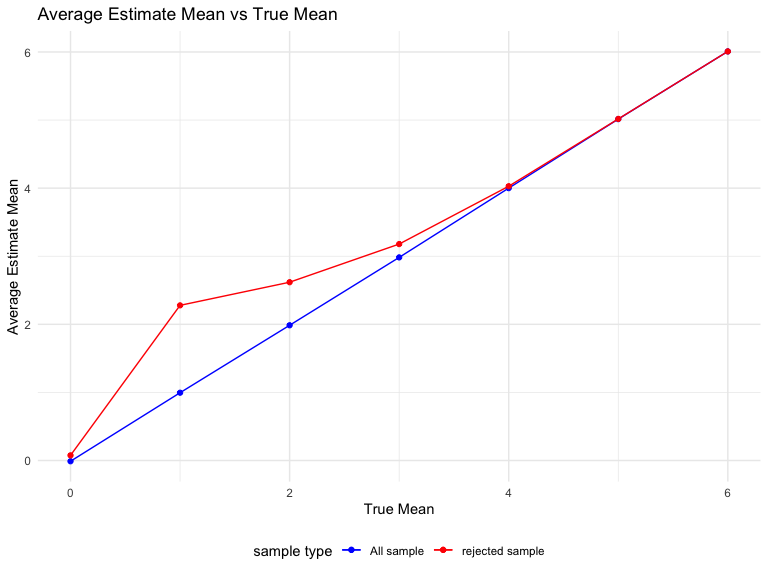
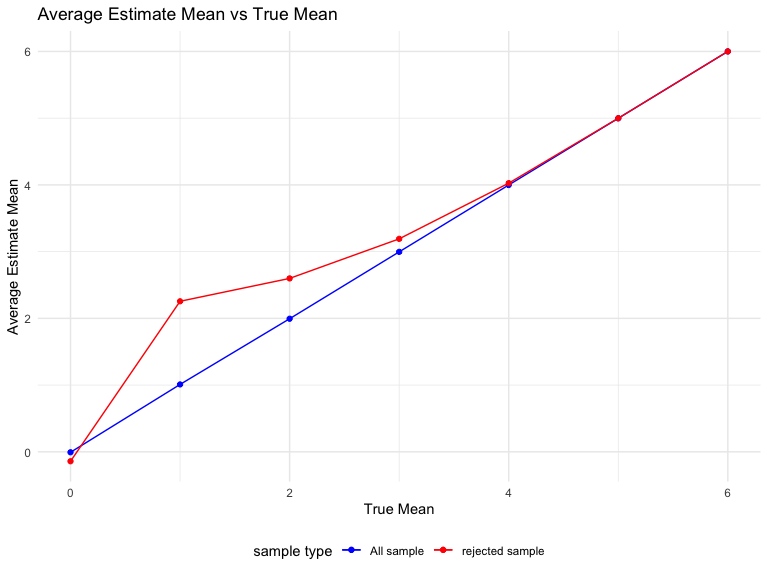
Change a typo

diff --git a/p8105_hw5_jt3387.md b/p8105_hw5_jt3387.md
@@ -264,8 +264,8 @@ citys_ptest %>%
 ## Problem 3
 
 Create a function to save the estimated and p-value from the t-test, and
-apply it to a simulation containing 5000 datasets with = 0 by using
-`map` function.
+apply it to a simulation containing 5000 datasets with $$\mu$$ = 0 by
+using `map` function.
 
 ``` r
 ttest_tidy <- function(n_obs = 30, mu, sigma = 5) {
@@ -283,19 +283,19 @@ result_mu_0
     ## # A tibble: 5,000 × 4
     ##       mu  iter estimate p.value
     ##    <dbl> <int>    <dbl>   <dbl>
-    ##  1     0     1   0.408   0.640 
-    ##  2     0     2   0.866   0.401 
-    ##  3     0     3  -0.832   0.350 
-    ##  4     0     4  -1.02    0.171 
-    ##  5     0     5   1.66    0.0712
-    ##  6     0     6   1.18    0.198 
-    ##  7     0     7  -0.776   0.439 
-    ##  8     0     8   0.0810  0.930 
-    ##  9     0     9   0.944   0.184 
-    ## 10     0    10  -0.245   0.774 
+    ##  1     0     1   -0.405  0.626 
+    ##  2     0     2   -1.37   0.119 
+    ##  3     0     3    0.772  0.487 
+    ##  4     0     4    0.190  0.825 
+    ##  5     0     5    0.300  0.736 
+    ##  6     0     6   -0.915  0.362 
+    ##  7     0     7   -0.591  0.561 
+    ##  8     0     8    1.16   0.0812
+    ##  9     0     9    2.46   0.0150
+    ## 10     0    10    0.574  0.508 
     ## # … with 4,990 more rows
 
-Repeat the above for = {1,2,3,4,5,6}.
+Repeat the above for $$\mu$$ = {1,2,3,4,5,6}.
 
 ``` r
 results_mus = expand_grid(mu = 1:6, iter = 1:5000) %>% 
@@ -307,20 +307,21 @@ results_mus
     ## # A tibble: 30,000 × 4
     ##       mu  iter estimate p.value
     ##    <int> <int>    <dbl>   <dbl>
-    ##  1     1     1   2.32    0.0158
-    ##  2     1     2   0.0362  0.962 
-    ##  3     1     3   0.788   0.400 
-    ##  4     1     4   1.05    0.275 
-    ##  5     1     5   1.59    0.174 
-    ##  6     1     6   0.551   0.548 
-    ##  7     1     7   1.58    0.103 
-    ##  8     1     8   1.53    0.144 
-    ##  9     1     9   0.625   0.526 
-    ## 10     1    10   1.37    0.0265
+    ##  1     1     1    2.38  0.0423 
+    ##  2     1     2    0.555 0.566  
+    ##  3     1     3    1.49  0.0423 
+    ##  4     1     4    0.616 0.354  
+    ##  5     1     5    0.395 0.656  
+    ##  6     1     6   -0.407 0.628  
+    ##  7     1     7    2.53  0.00234
+    ##  8     1     8    1.66  0.0406 
+    ##  9     1     9    1.54  0.0852 
+    ## 10     1    10    1.17  0.121  
     ## # … with 29,990 more rows
 
 Make a plot to show the proportion of times the null was rejected (the
-power of the test) on the y axis and the true value of on the x axis.
+power of the test) on the y axis and the true value of $$\mu$$ on the x
+axis.
 
 ``` r
 results_allmu <- rbind(result_mu_0,results_mus)
@@ -346,9 +347,9 @@ results_allmu %>%
     increases slowly to 1 as the mean increases. Therefore, there is a
     positive relationship between the effect size and power.
 
-Make a plot showing the average estimate of on the y axis and the true
-value of on the x axis in all samples and in samples for which the null
-was rejected.
+Make a plot showing the average estimate of $$\mu$$ on the y axis and
+the true value of $\mu$ on the x axis in all samples and in samples for
+which the null was rejected.
 
 ``` r
 hat_mu_all <- results_allmu %>% 
@@ -373,21 +374,21 @@ ggplot(hat_mu_all, aes(x = mu, y = hat_mu, color = 'blue')) +
 
 <img src="p8105_hw5_jt3387_files/figure-gfm/unnamed-chunk-12-1.png" width="90%" />
 
--   From the plot, we can see that the sample average of estimated
+-   From the plot, we can see that the sample average of estimated $\mu$
     across tests for which the null is rejected is approximately equal
-    to the true value of when the true mean equals to 0, 4, 5, and 6,
-    while they are not approximately equal to each other when the true
-    mean equals to 1, 2, and 3.
+    to the true value of $\mu$ when the true mean equals to 0, 4, 5, and
+    6, while they are not approximately equal to each other when the
+    true mean equals to 1, 2, and 3.
 
--   The estimated in non-reject sample is basically small, and the
-    estimated in reject sample is relatively bigger. When = 0, there
-    will be few reject null samples due to the random error, so the
-    estimated is very similar to the true mean. When = 1, 2, 3, the
-    effect size and null rejection proportion (power) is small, so the
-    reject null sample is not a big part of the whole sample. Therefore,
-    when we get rid of the non-reject sample, the in the reject null
-    sample is going to get bigger. When = 4, 5, 6, the effect size and
-    null rejection proportion (power) is big, so the reject null sample
-    is a big part of the whole sample. Therefore, the in the reject null
-    sample are similar to the true mean after getting rid of the
-    non-reject sample.
+-   The estimated $\mu$ in non-reject sample is basically small, and the
+    estimated $\mu$ in reject sample is relatively bigger. When $\mu$ =
+    0, there will be few reject null samples due to the random error, so
+    the estimated $\mu$ is very similar to the true mean. When $\mu$ =
+    1, 2, 3, the effect size and null rejection proportion (power) is
+    small, so the reject null sample is not a big part of the whole
+    sample. Therefore, when we get rid of the non-reject sample, the
+    $\mu$ in the reject null sample is going to get bigger. When $\mu$ =
+    4, 5, 6, the effect size and null rejection proportion (power) is
+    big, so the reject null sample is a big part of the whole sample.
+    Therefore, the $\mu$ in the reject null sample are similar to the
+    true mean after getting rid of the non-reject sample.
